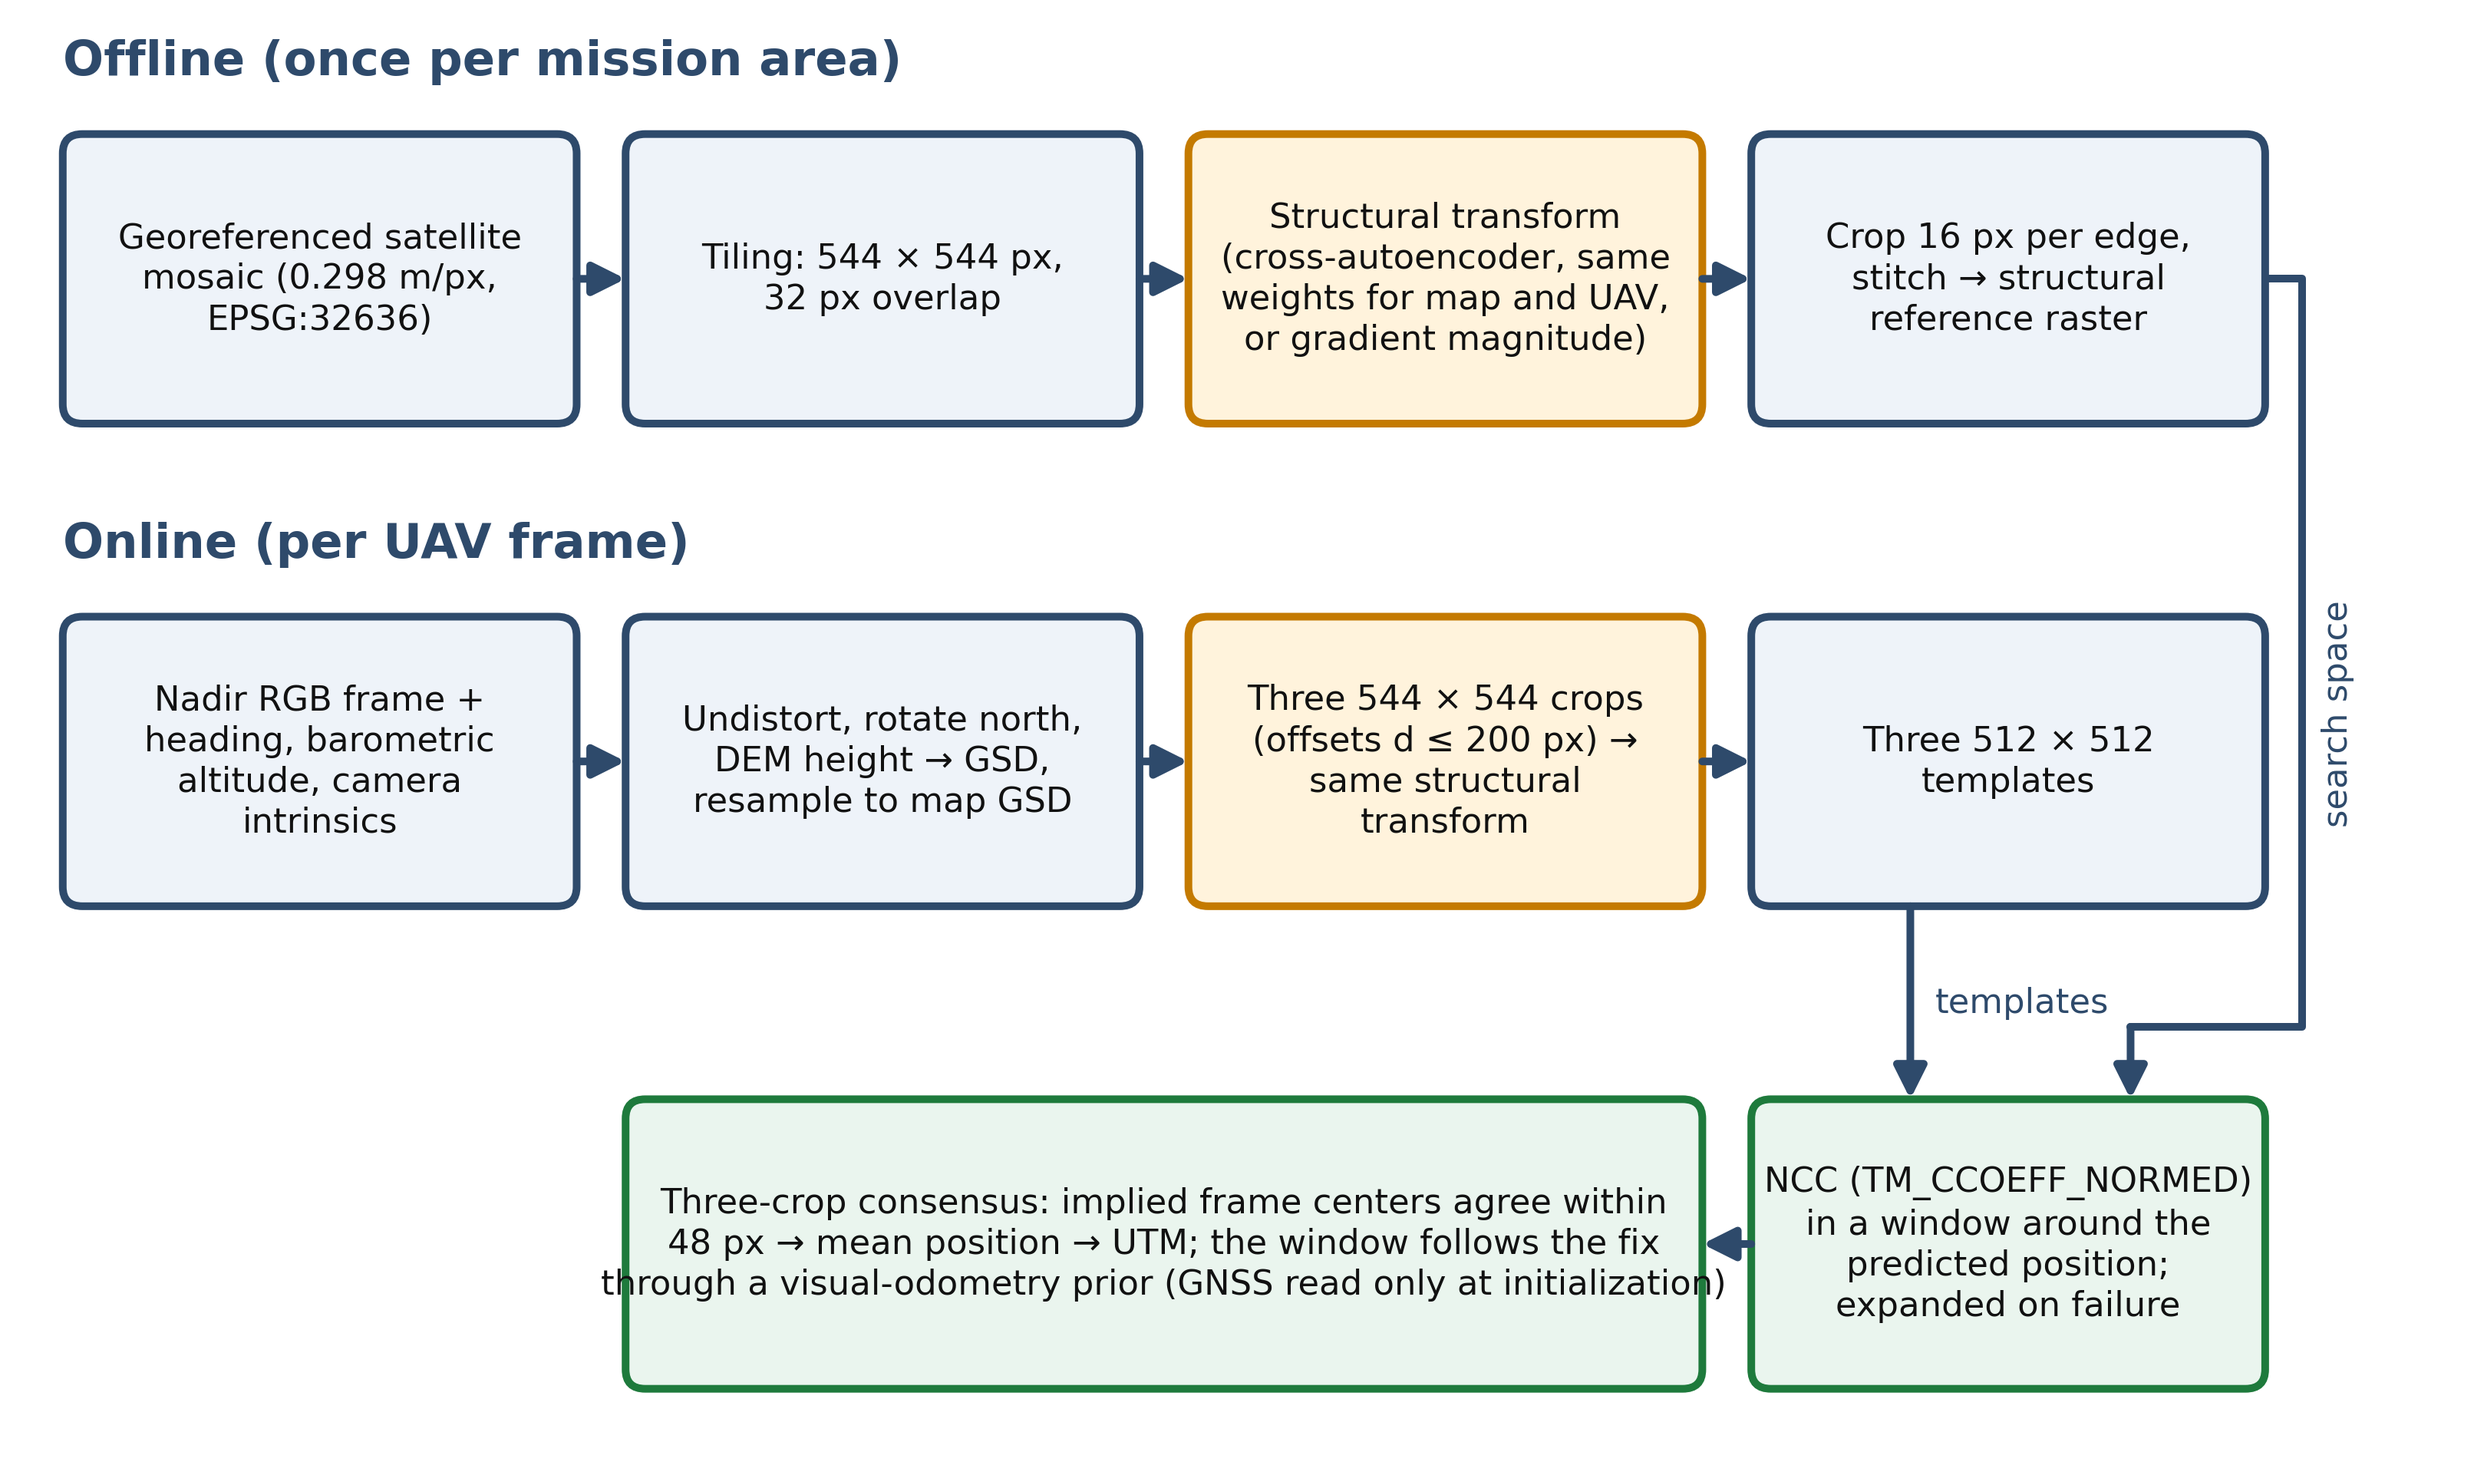
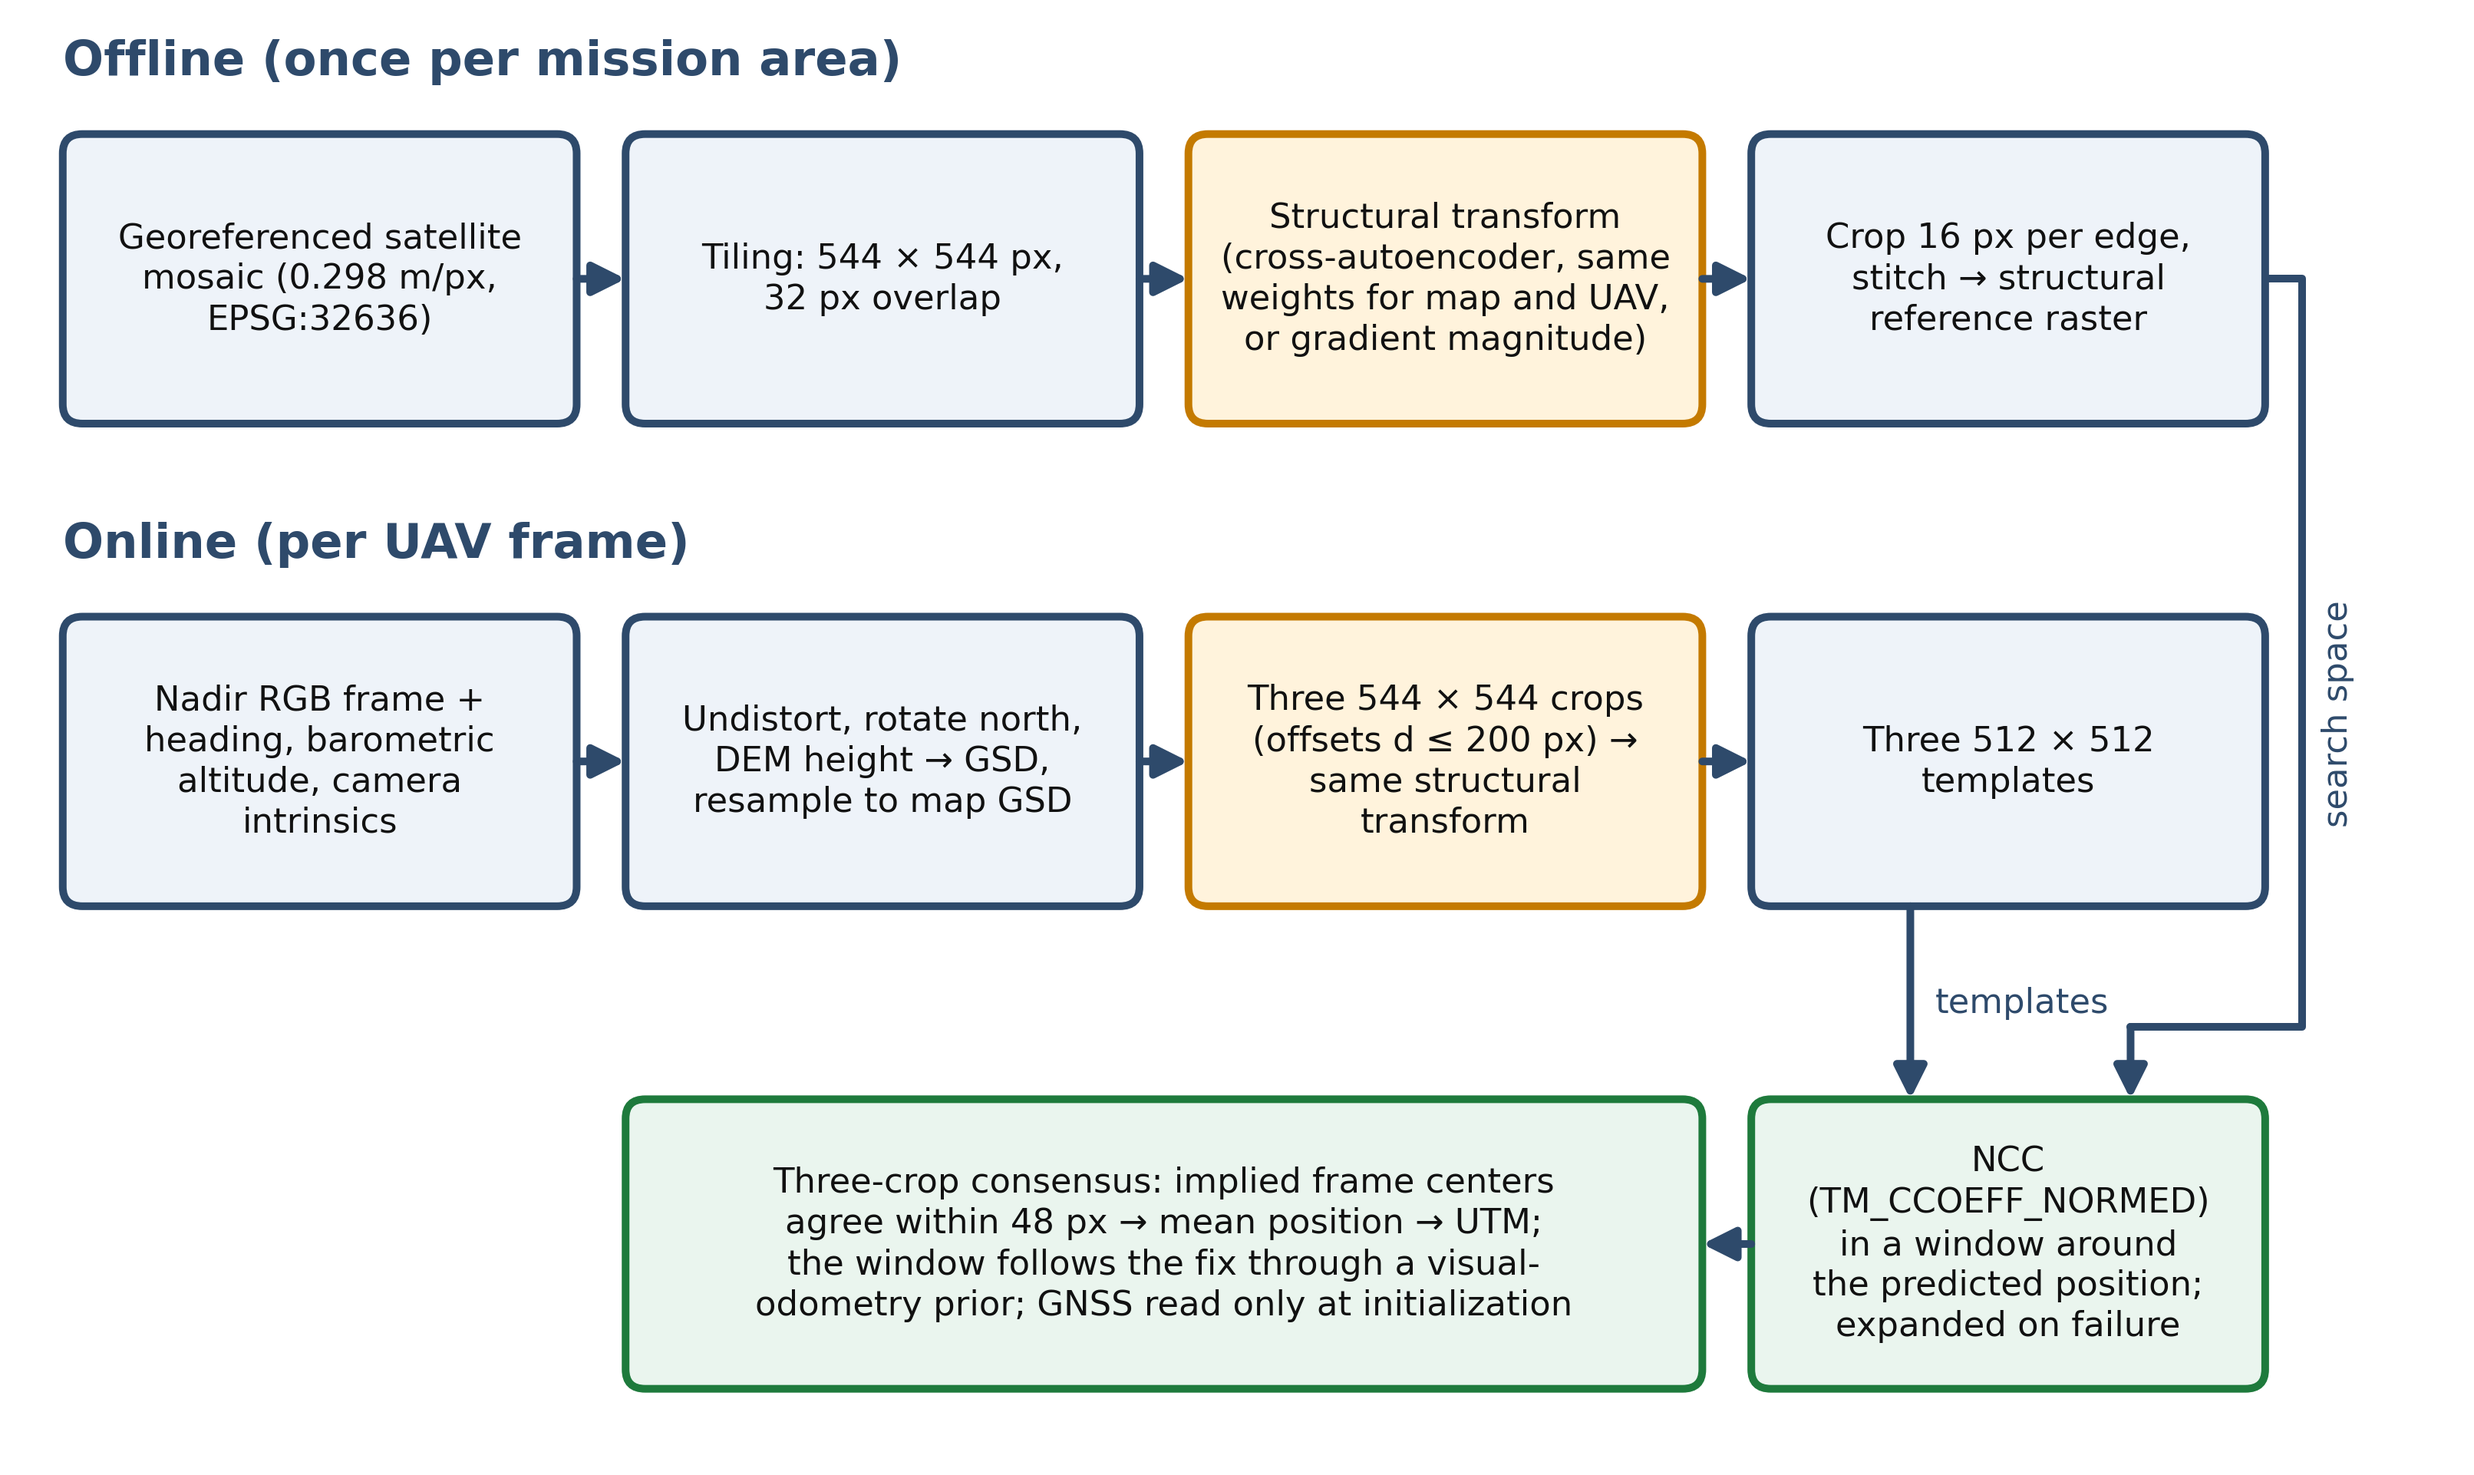
Sekil 1 ve 8(a) duzeltmesi: kutu metinleri kenar payli, NCC etiketi beyaz zeminde
- Sekil 1: "Three-crop consensus" metni dort satira bolundu; NCC kutusunda TM_CCOEFF_NORMED tek satirda,
  kenarlarda pay var. make_figs.py artik her kutu metninin kutuya payla sigdigini denetliyor, sigmazsa duruyor.
- Sekil 8(a): "grayscale NCC 74.8%" etiketi beyaz zeminde ve en yuksek sutunu (70-75%) ortmeyecek sekilde
  esik cizgisinin solundaki bosluga alindi.

Changed region(s): [[0.2481, 0.7804, 0.6824, 0.9053], [0.7134, 0.7804, 0.8995, 0.9053]]

diff --git a/manuscript_v15/ijeg/make_figs.py b/manuscript_v15/ijeg/make_figs.py
@@ -92,7 +92,10 @@ def fig8():
     fig, (a, b) = plt.subplots(1, 2, figsize=(W_IN, W_IN * 841 / 2136), gridspec_kw={'width_ratios': [1.05, 1]})
     a.hist(per.values, bins=np.arange(0, 101, 5), color=BLUE, edgecolor='white', lw=0.5)
     a.axvline(raw, color=VERM, lw=2)
-    a.text(raw - 1.5, a.get_ylim()[1] * 0.97, f'grayscale NCC\n{raw:.1f}%', color=VERM, ha='right', va='top', fontsize=8.5)
+    # label on a white ground, right-aligned just left of the bin that holds the baseline so that it never
+    # covers a bar top (the 70-75% bin is the tallest one)
+    a.text(5 * np.floor(raw / 5) - 1.0, a.get_ylim()[1] * 0.97, f'grayscale NCC\n{raw:.1f}%', color=VERM, ha='right',
+           va='top', fontsize=8.5, bbox=dict(facecolor='white', edgecolor='none', pad=1.5), zorder=5)
     a.set_title(f'(a) Architecture / checkpoint screening, 300 queries', loc='left')
     a.set_xlabel('Mean global success @ 25 m, clean & hard_v1 (%)'); a.set_ylabel(f'Checkpoints (n = {len(per)})')
     a.set_xlim(-2, 102)
@@ -135,9 +138,12 @@ def fig9():
 def fig1():
     fig = plt.figure(figsize=(W_IN, W_IN * 1053 / 1780)); ax = fig.add_axes([0, 0, 1, 1]); ax.set_xlim(0, 100); ax.set_ylim(0, 60); ax.axis('off')
     NAVY = '#2E4A6B'; FILL = '#EEF3F9'; ORF, ORE = '#FFF3DC', '#C47A00'; GRF, GRE = '#EAF5EE', '#1E7A3C'
+    boxes = []
+
     def box(x, y, w, h, text, fill=FILL, edge=NAVY, fs=9):
         ax.add_patch(FancyBboxPatch((x, y), w, h, boxstyle='round,pad=0,rounding_size=0.8', fc=fill, ec=edge, lw=1.6))
-        ax.text(x + w / 2, y + h / 2, text, ha='center', va='center', fontsize=fs, color='#111111', linespacing=1.3)
+        t = ax.text(x + w / 2, y + h / 2, text, ha='center', va='center', fontsize=fs, color='#111111', linespacing=1.3)
+        boxes.append((t, x, y, w, h))
     def arrow(p, q, **kw):
         ax.add_patch(FancyArrowPatch(p, q, arrowstyle='-|>', mutation_scale=14, color=NAVY, lw=1.6, shrinkA=0, shrinkB=0, **kw))
     bw, bh, gap, x0, FS = 21.0, 12, 2.0, 2, 7.2
@@ -160,8 +166,8 @@ def fig1():
         if i: arrow((xs[i - 1] + bw, y2 + bh / 2), (xs[i], y2 + bh / 2))
     # bottom row
     y3 = 3
-    box(xs[3], y3, bw, bh, 'NCC (TM_CCOEFF_NORMED)\nin a window around the\npredicted position;\nexpanded on failure', GRF, GRE, fs=FS)
-    box(xs[1], y3, 2 * bw + gap, bh, 'Three-crop consensus: implied frame centers agree within\n48 px → mean position → UTM; the window follows the fix\nthrough a visual-odometry prior (GNSS read only at initialization)', GRF, GRE, fs=FS)
+    box(xs[3], y3, bw, bh, 'NCC\n(TM_CCOEFF_NORMED)\nin a window around\nthe predicted position;\nexpanded on failure', GRF, GRE, fs=FS)
+    box(xs[1], y3, 2 * bw + gap, bh, 'Three-crop consensus: implied frame centers\nagree within 48 px → mean position → UTM;\nthe window follows the fix through a visual-\nodometry prior; GNSS read only at initialization', GRF, GRE, fs=FS)
     arrow((xs[3], y3 + bh / 2), (xs[2] + bw, y3 + bh / 2))
     # templates down, search space from the reference raster around the right side
     arrow((xs[3] + bw / 2 - 4, y2), (xs[3] + bw / 2 - 4, y3 + bh))
@@ -170,6 +176,13 @@ def fig1():
     ax.plot([xs[3] + bw, xr, xr, xs[3] + bw / 2 + 5], [y1 + bh / 2, y1 + bh / 2, y3 + bh + 3, y3 + bh + 3], color=NAVY, lw=1.6, solid_capstyle='round')
     arrow((xs[3] + bw / 2 + 5, y3 + bh + 3), (xs[3] + bw / 2 + 5, y3 + bh))
     ax.text(xr + 0.8, (y1 + y3 + bh) / 2 + 2, 'search space', fontsize=FS, color=NAVY, rotation=90, va='center')
+    # every label must sit inside its box with a margin (1.2 units across, 0.8 units vertically)
+    fig.canvas.draw(); r = fig.canvas.get_renderer(); inv = ax.transData.inverted()
+    for t, x, y, w, h in boxes:
+        (bx0, by0), (bx1, by1) = inv.transform(t.get_window_extent(r).get_points())
+        if bx0 < x + 1.2 or bx1 > x + w - 1.2 or by0 < y + 0.8 or by1 > y + h - 0.8:
+            raise SystemExit(f'Figure 1: text does not fit its box with margin: {t.get_text()!r} '
+                             f'text x {bx0:.1f}-{bx1:.1f} y {by0:.1f}-{by1:.1f}, box x {x:.1f}-{x + w:.1f} y {y:.1f}-{y + h:.1f}')
     save(fig, 'fig1_pipeline.png')
 
 
